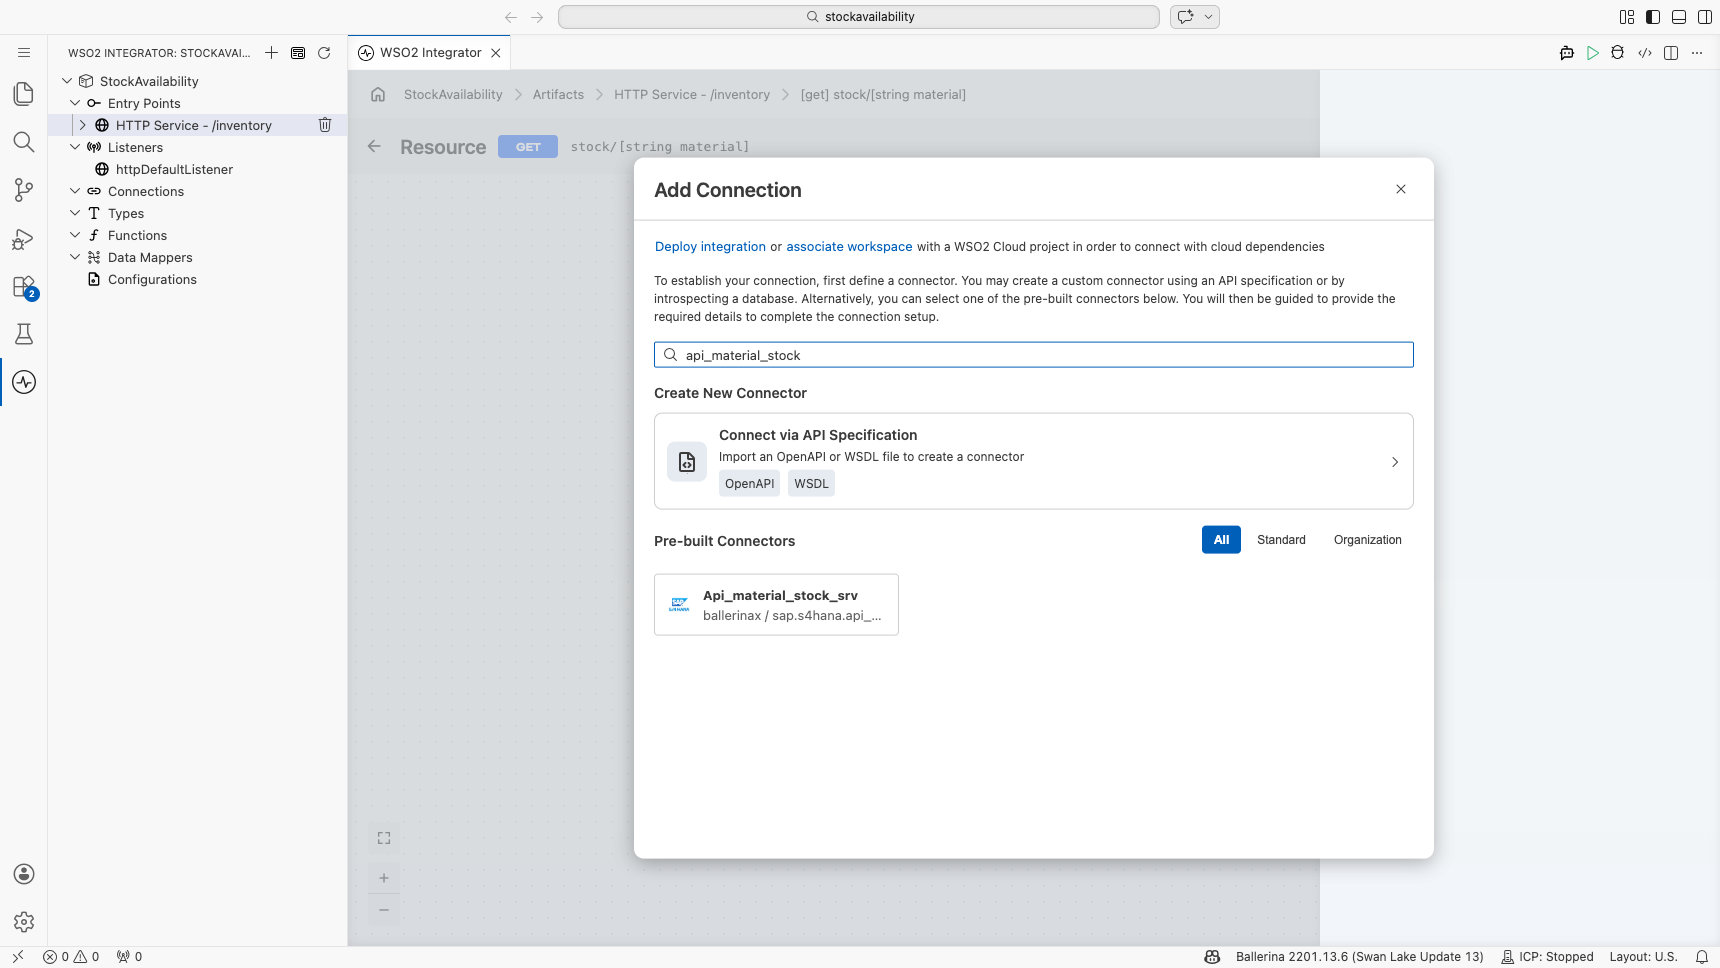
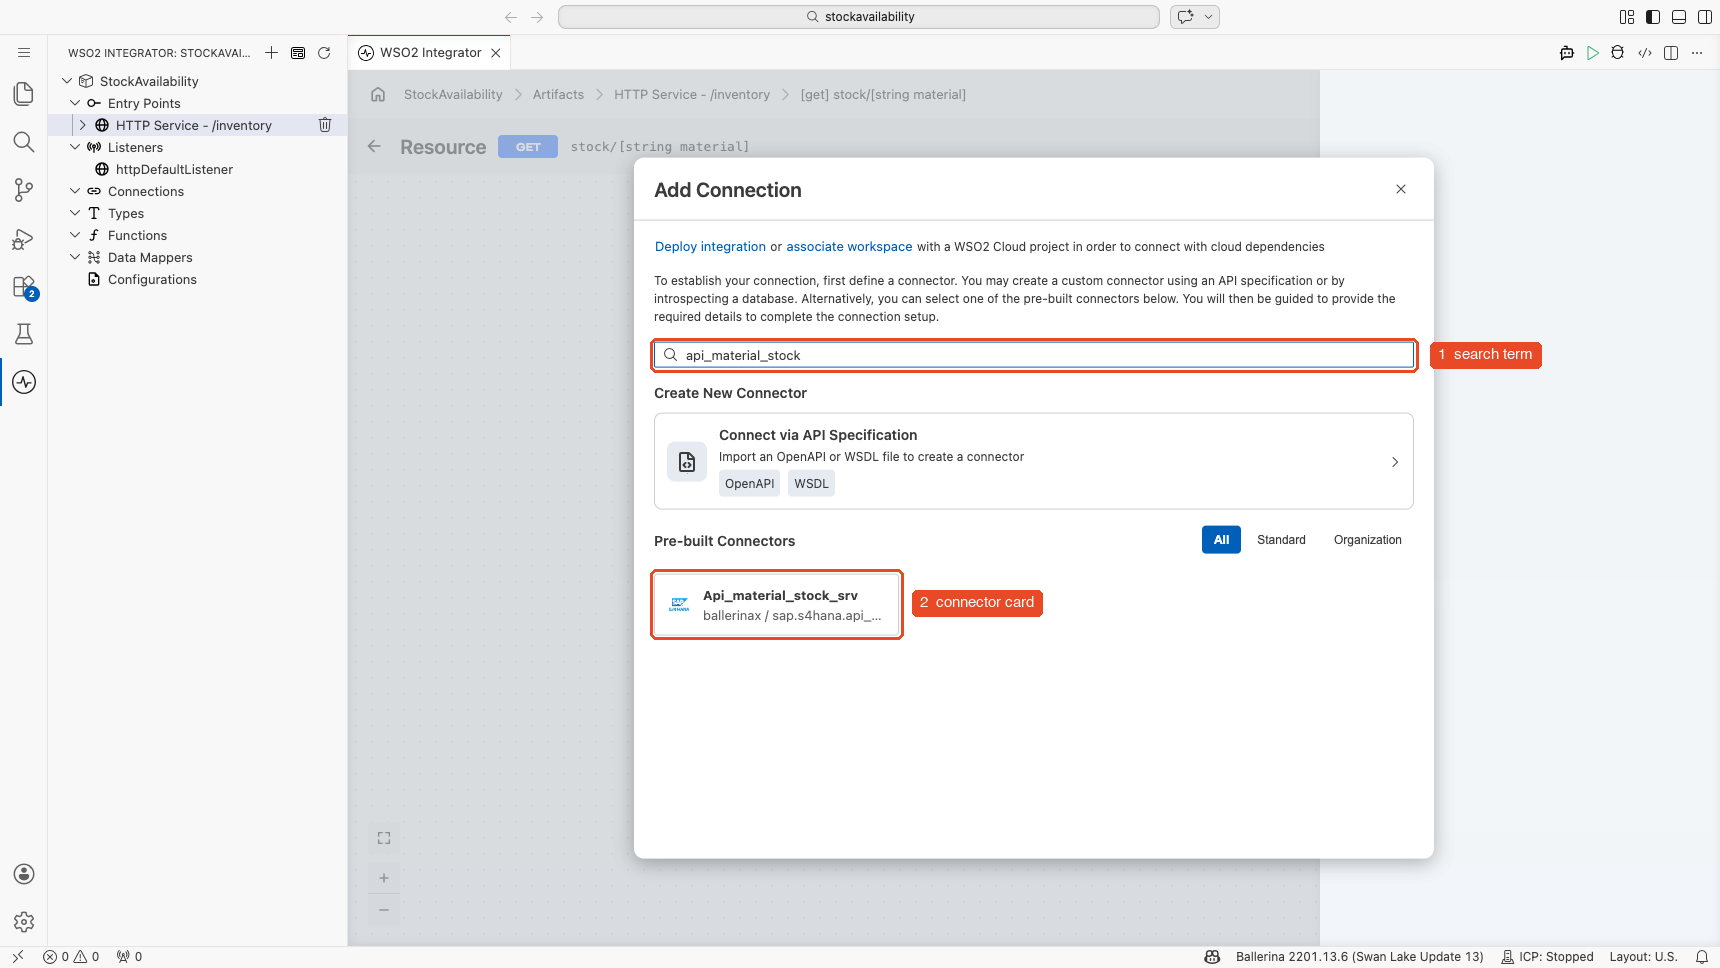
Make the stock availability guide a how-to guide; add SAP setup steps and connector naming
- Move the page from business-use-cases to how-to-guides (current and 5.1.0), slug /guides/how-to-guides/sap-s4hana-stock-availability-api.
- Add a Set up access in SAP S/4HANA section with screenshots: Communication Management apps, communication system, inbound user, SAP_COM_0164 scenario search, new arrangement, API hostname.
- Explain how SAP S/4HANA connector names come from the api.sap.com technical name, with highlight boxes on the connector palette screenshot.

diff --git a/en/docs/guides/how-to-guides/sap-s4hana-stock-availability-api.md b/en/docs/guides/how-to-guides/sap-s4hana-stock-availability-api.md
@@ -1,10 +1,10 @@
 ---
-sidebar_position: 7
+sidebar_position: 6
 title: "Expose SAP S/4HANA Stock Availability as a REST API"
 sidebar_label: "Expose SAP S/4HANA Stock Availability as a REST API"
 description: Build an HTTP service that reads unrestricted-use stock for a material and plant from SAP S/4HANA Cloud and returns the total quantity and the stock in each storage location as JSON, designed visually with the SAP Material Stock connector.
-keywords: [wso2 integrator, http service, rest api, sap s/4hana, material stock, inventory, stock availability, api_material_stock_srv, use case, low-code]
-slug: /guides/business-use-cases/sap-s4hana-stock-availability-api
+keywords: [wso2 integrator, http service, rest api, sap s/4hana, material stock, inventory, stock availability, api_material_stock_srv, communication arrangement, low-code]
+slug: /guides/how-to-guides/sap-s4hana-stock-availability-api
 card_icon: api
 card_summary: A low-code REST API that answers "how much of this material do we have?" with live SAP S/4HANA stock, broken down by storage location
 card_keywords: [sap, s/4hana, inventory, stock, rest api]
@@ -17,7 +17,7 @@ import TabItem from '@theme/TabItem';
 
 # Expose SAP S/4HANA Stock Availability as a REST API
 
-**Time:** About 30 minutes | **What you'll build:** An HTTP service with one `GET` resource that returns the live unrestricted-use stock of a material in a plant, read from SAP S/4HANA Cloud, with the total quantity and the quantity in each storage location.
+**Time:** About 45 minutes | **What you'll build:** An HTTP service with one `GET` resource that returns the live unrestricted-use stock of a material in a plant, read from SAP S/4HANA Cloud, with the total quantity and the quantity in each storage location.
 
 Web shops, point-of-sale systems and warehouse apps all need the same answer before they promise anything to a customer: how much of this material is actually in stock? SAP S/4HANA knows, but its OData API speaks in SAP field names and returns quantities as text. In this guide you build a small REST API in front of it: a client calls `GET /inventory/stock/{material}?plant={plant}`, and the API asks SAP S/4HANA for that material's unrestricted-use stock in that plant and returns a clean JSON answer.
 
@@ -43,12 +43,101 @@ Each request follows the same short flow:
 :::info Prerequisites
 
 - A working WSO2 Integrator environment. See [Setup](../../get-started/setup/setup.md).
-- Access to an SAP S/4HANA Cloud system, and a communication user for the Material Stock API:
-    - Follow the [SAP Material Stock connector setup guide](product://connectors/catalog/erp-business/sap.s4hana.api_material_stock_srv/setup-guide) to create a communication user, a communication system and a **Material Stock Integration** (`SAP_COM_0164`) communication arrangement.
-    - It gives you the API hostname (for example, `my123456-api.s4hana.cloud.sap`) and the communication user's username and password, which you supply as configurables in Step 3.
+- Access to an SAP S/4HANA Cloud system, with a user that has the `SAP_BR_ADMINISTRATOR` role (or equivalent) to create communication users, systems and arrangements. You set up API access in [Set up access in SAP S/4HANA](#set-up-access-in-sap-s4hana).
 - A material that has stock in your system, and the plant it is stored in. The examples in this guide use material `RM019` in plant `1710`.
 
 :::
+
+## Set up access in SAP S/4HANA
+
+SAP S/4HANA Cloud exposes each API through a **communication scenario**. Before the integration can read stock, you create a communication user for it, register WSO2 Integrator as a communication system, and activate the **Material Stock Integration** (`SAP_COM_0164`) scenario for that system with a communication arrangement. All the apps used below are in the **Communication Management** group of the SAP Fiori launchpad.
+
+<ThemedImage
+    alt="Communication Management group in the SAP Fiori launchpad with the Communication Arrangements, Communication Systems and Maintain Communication Users apps"
+    sources={{
+        light: useBaseUrl('/img/guides/usecases/sap-s4hana-stock-availability-api/setup-01-communication-management.png'),
+        dark: useBaseUrl('/img/guides/usecases/sap-s4hana-stock-availability-api/setup-01-communication-management.png'),
+    }}
+/>
+
+### Create a communication user
+
+1. Open **Maintain Communication Users** and select **New**.
+2. Enter a **User Name** and a **Description**, set a **Password**, and select **Create**.
+
+Note the user name and password. The integration uses them to call the API.
+
+### Create a communication system
+
+A communication system represents the external system that calls SAP S/4HANA, here your WSO2 Integrator integration.
+
+1. Open **Communication Systems** and select **New**.
+2. Enter a **System ID** and a **System Name**, then select **Create**.
+
+        <ThemedImage
+        alt="New communication system with the system ID and system name"
+        sources={{
+            light: useBaseUrl('/img/guides/usecases/sap-s4hana-stock-availability-api/setup-02-communication-system.png'),
+            dark: useBaseUrl('/img/guides/usecases/sap-s4hana-stock-availability-api/setup-02-communication-system.png'),
+        }}
+    />
+
+3. Under **General** > **Technical Data**, enter a **Host Name** and a **Logical System** (an uppercase ID of up to 10 characters, for example, `INTEGRATOR`).
+4. Under **Users for Inbound Communication**, add the communication user you created, with the **User Name and Password** authentication method.
+
+        <ThemedImage
+        alt="Communication user added under Users for Inbound Communication"
+        sources={{
+            light: useBaseUrl('/img/guides/usecases/sap-s4hana-stock-availability-api/setup-03-inbound-user.png'),
+            dark: useBaseUrl('/img/guides/usecases/sap-s4hana-stock-availability-api/setup-03-inbound-user.png'),
+        }}
+    />
+
+5. Select **Save**.
+
+### Create the communication arrangement
+
+A communication arrangement activates a communication scenario for a communication system, which decides the APIs that system may call.
+
+1. Open **Communication Arrangements** and select **New**.
+2. In the **Scenario** value help, search for **Material Stock Integration** and select **`SAP_COM_0164`**. This scenario exposes `API_MATERIAL_STOCK_SRV`, the service the Material Stock connector calls.
+
+        <ThemedImage
+        alt="Select Communication Scenario dialog searching for Material Stock Integration, showing SAP_COM_0164"
+        sources={{
+            light: useBaseUrl('/img/guides/usecases/sap-s4hana-stock-availability-api/setup-04-search-scenario.png'),
+            dark: useBaseUrl('/img/guides/usecases/sap-s4hana-stock-availability-api/setup-04-search-scenario.png'),
+        }}
+    />
+
+3. Enter an **Arrangement Name** and select **Create**.
+
+        <ThemedImage
+        alt="New Communication Arrangement dialog with scenario SAP_COM_0164 and an arrangement name"
+        style={{maxWidth: '480px'}}
+        sources={{
+            light: useBaseUrl('/img/guides/usecases/sap-s4hana-stock-availability-api/setup-05-new-arrangement.png'),
+            dark: useBaseUrl('/img/guides/usecases/sap-s4hana-stock-availability-api/setup-05-new-arrangement.png'),
+        }}
+    />
+
+4. Select the communication system you created. The communication user is filled in as the inbound user.
+5. Select **Save**.
+
+### Note the hostname
+
+In the saved arrangement, the **API-URL** next to **Own SAP Cloud System** shows your API hostname (`<unique id>-api.s4hana.cloud.sap`).
+
+<ThemedImage
+    alt="API-URL of the SAP S/4HANA Cloud system shown in the communication arrangement"
+    style={{maxWidth: '600px'}}
+    sources={{
+        light: useBaseUrl('/img/guides/usecases/sap-s4hana-stock-availability-api/setup-06-view-hostname.png'),
+        dark: useBaseUrl('/img/guides/usecases/sap-s4hana-stock-availability-api/setup-06-view-hostname.png'),
+    }}
+/>
+
+You now have the three values the integration needs: the **hostname** (for example, `my123456-api.s4hana.cloud.sap`), and the communication user's **username** and **password**. For more detail, see the [SAP Material Stock connector setup guide](product://connectors/catalog/erp-business/sap.s4hana.api_material_stock_srv/setup-guide).
 
 ## Build the integration
 
@@ -110,7 +199,7 @@ The resource opens in the flow designer, with **Start**, an empty step and the *
 
 ## Step 3: Connect to SAP S/4HANA
 
-1. Select the **+** below **Start**, then [**Add Connection**](../../develop-and-test/integration-artifacts/supportive-artifacts/connections.md#adding-a-connection). Search for `api_material_stock` and select the **Api_material_stock_srv** connector.
+1. Select the **+** below **Start**, then [**Add Connection**](../../develop-and-test/integration-artifacts/supportive-artifacts/connections.md#adding-a-connection). Search for `api_material_stock` (1) and select the **Api_material_stock_srv** connector (2).
 
     <ThemedImage
         alt="Add Connection dialog searching for api_material_stock, with the Api_material_stock_srv connector card shown under Pre-built Connectors"
@@ -120,7 +209,20 @@ The resource opens in the flow designer, with **Start**, an empty step and the *
         }}
     />
 
-2. Create three `string` configurables so the credentials are supplied at runtime instead of stored in the flow: in a field's [Expression editor](../../editor/panels/expression-panel.md) helper pane, select **Configurables**, then **New Configurable**. Name them `sapS4HanaHostname`, `sapS4HanaUsername` and `sapS4HanaPassword`.
+    :::info Why is the connector called Api_material_stock_srv?
+    Each SAP S/4HANA connector is generated from one API on the [SAP Business Accelerator Hub](https://api.sap.com), and takes its name from that API's **technical name**. The technical name is the last part of the API's URL on api.sap.com, and also the name of the OData service the connector calls on your system (`/sap/opu/odata/sap/API_MATERIAL_STOCK_SRV`).
+
+    | | Example |
+    |---|---|
+    | API on api.sap.com | **Material Stock (A2X)** |
+    | api.sap.com URL | `https://api.sap.com/api/`**`API_MATERIAL_STOCK_SRV`**`/overview` |
+    | Ballerina package | `ballerinax/sap.s4hana.`**`api_material_stock_srv`** (`sap.s4hana.` plus the technical name in lower case) |
+    | Connector card in WSO2 Integrator | **Api_material_stock_srv** |
+
+    So, to find the connector for any other SAP S/4HANA API, open the API on api.sap.com, copy the technical name from its URL, and search for it in lower case. For example, **Outbound Delivery (A2X)** at `https://api.sap.com/api/API_OUTBOUND_DELIVERY_SRV_0002/overview` is the `sap.s4hana.api_outbound_delivery_srv_0002` connector.
+    :::
+
+2. Create three `string` configurables for the hostname, username and password you noted in [Set up access in SAP S/4HANA](#set-up-access-in-sap-s4hana), so the credentials are supplied at runtime instead of stored in the flow: in a field's [Expression editor](../../editor/panels/expression-panel.md) helper pane, select **Configurables**, then **New Configurable**. Name them `sapS4HanaHostname`, `sapS4HanaUsername` and `sapS4HanaPassword`.
 3. Bind **Hostname** to `sapS4HanaHostname`.
 4. Switch **Config** to **Expression** and enter:
 

diff --git a/en/versioned_docs/version-5.1.0/guides/how-to-guides/sap-s4hana-stock-availability-api.md b/en/versioned_docs/version-5.1.0/guides/how-to-guides/sap-s4hana-stock-availability-api.md
@@ -1,10 +1,10 @@
 ---
-sidebar_position: 7
+sidebar_position: 6
 title: "Expose SAP S/4HANA Stock Availability as a REST API"
 sidebar_label: "Expose SAP S/4HANA Stock Availability as a REST API"
 description: Build an HTTP service that reads unrestricted-use stock for a material and plant from SAP S/4HANA Cloud and returns the total quantity and the stock in each storage location as JSON, designed visually with the SAP Material Stock connector.
-keywords: [wso2 integrator, http service, rest api, sap s/4hana, material stock, inventory, stock availability, api_material_stock_srv, use case, low-code]
-slug: /guides/business-use-cases/sap-s4hana-stock-availability-api
+keywords: [wso2 integrator, http service, rest api, sap s/4hana, material stock, inventory, stock availability, api_material_stock_srv, communication arrangement, low-code]
+slug: /guides/how-to-guides/sap-s4hana-stock-availability-api
 card_icon: api
 card_summary: A low-code REST API that answers "how much of this material do we have?" with live SAP S/4HANA stock, broken down by storage location
 card_keywords: [sap, s/4hana, inventory, stock, rest api]
@@ -17,7 +17,7 @@ import TabItem from '@theme/TabItem';
 
 # Expose SAP S/4HANA Stock Availability as a REST API
 
-**Time:** About 30 minutes | **What you'll build:** An HTTP service with one `GET` resource that returns the live unrestricted-use stock of a material in a plant, read from SAP S/4HANA Cloud, with the total quantity and the quantity in each storage location.
+**Time:** About 45 minutes | **What you'll build:** An HTTP service with one `GET` resource that returns the live unrestricted-use stock of a material in a plant, read from SAP S/4HANA Cloud, with the total quantity and the quantity in each storage location.
 
 Web shops, point-of-sale systems and warehouse apps all need the same answer before they promise anything to a customer: how much of this material is actually in stock? SAP S/4HANA knows, but its OData API speaks in SAP field names and returns quantities as text. In this guide you build a small REST API in front of it: a client calls `GET /inventory/stock/{material}?plant={plant}`, and the API asks SAP S/4HANA for that material's unrestricted-use stock in that plant and returns a clean JSON answer.
 
@@ -43,12 +43,101 @@ Each request follows the same short flow:
 :::info Prerequisites
 
 - A working WSO2 Integrator environment. See [Setup](../../get-started/setup/setup.md).
-- Access to an SAP S/4HANA Cloud system, and a communication user for the Material Stock API:
-    - Follow the [SAP Material Stock connector setup guide](product://connectors/catalog/erp-business/sap.s4hana.api_material_stock_srv/setup-guide) to create a communication user, a communication system and a **Material Stock Integration** (`SAP_COM_0164`) communication arrangement.
-    - It gives you the API hostname (for example, `my123456-api.s4hana.cloud.sap`) and the communication user's username and password, which you supply as configurables in Step 3.
+- Access to an SAP S/4HANA Cloud system, with a user that has the `SAP_BR_ADMINISTRATOR` role (or equivalent) to create communication users, systems and arrangements. You set up API access in [Set up access in SAP S/4HANA](#set-up-access-in-sap-s4hana).
 - A material that has stock in your system, and the plant it is stored in. The examples in this guide use material `RM019` in plant `1710`.
 
 :::
+
+## Set up access in SAP S/4HANA
+
+SAP S/4HANA Cloud exposes each API through a **communication scenario**. Before the integration can read stock, you create a communication user for it, register WSO2 Integrator as a communication system, and activate the **Material Stock Integration** (`SAP_COM_0164`) scenario for that system with a communication arrangement. All the apps used below are in the **Communication Management** group of the SAP Fiori launchpad.
+
+<ThemedImage
+    alt="Communication Management group in the SAP Fiori launchpad with the Communication Arrangements, Communication Systems and Maintain Communication Users apps"
+    sources={{
+        light: useBaseUrl('/img/guides/usecases/sap-s4hana-stock-availability-api/setup-01-communication-management.png'),
+        dark: useBaseUrl('/img/guides/usecases/sap-s4hana-stock-availability-api/setup-01-communication-management.png'),
+    }}
+/>
+
+### Create a communication user
+
+1. Open **Maintain Communication Users** and select **New**.
+2. Enter a **User Name** and a **Description**, set a **Password**, and select **Create**.
+
+Note the user name and password. The integration uses them to call the API.
+
+### Create a communication system
+
+A communication system represents the external system that calls SAP S/4HANA, here your WSO2 Integrator integration.
+
+1. Open **Communication Systems** and select **New**.
+2. Enter a **System ID** and a **System Name**, then select **Create**.
+
+        <ThemedImage
+        alt="New communication system with the system ID and system name"
+        sources={{
+            light: useBaseUrl('/img/guides/usecases/sap-s4hana-stock-availability-api/setup-02-communication-system.png'),
+            dark: useBaseUrl('/img/guides/usecases/sap-s4hana-stock-availability-api/setup-02-communication-system.png'),
+        }}
+    />
+
+3. Under **General** > **Technical Data**, enter a **Host Name** and a **Logical System** (an uppercase ID of up to 10 characters, for example, `INTEGRATOR`).
+4. Under **Users for Inbound Communication**, add the communication user you created, with the **User Name and Password** authentication method.
+
+        <ThemedImage
+        alt="Communication user added under Users for Inbound Communication"
+        sources={{
+            light: useBaseUrl('/img/guides/usecases/sap-s4hana-stock-availability-api/setup-03-inbound-user.png'),
+            dark: useBaseUrl('/img/guides/usecases/sap-s4hana-stock-availability-api/setup-03-inbound-user.png'),
+        }}
+    />
+
+5. Select **Save**.
+
+### Create the communication arrangement
+
+A communication arrangement activates a communication scenario for a communication system, which decides the APIs that system may call.
+
+1. Open **Communication Arrangements** and select **New**.
+2. In the **Scenario** value help, search for **Material Stock Integration** and select **`SAP_COM_0164`**. This scenario exposes `API_MATERIAL_STOCK_SRV`, the service the Material Stock connector calls.
+
+        <ThemedImage
+        alt="Select Communication Scenario dialog searching for Material Stock Integration, showing SAP_COM_0164"
+        sources={{
+            light: useBaseUrl('/img/guides/usecases/sap-s4hana-stock-availability-api/setup-04-search-scenario.png'),
+            dark: useBaseUrl('/img/guides/usecases/sap-s4hana-stock-availability-api/setup-04-search-scenario.png'),
+        }}
+    />
+
+3. Enter an **Arrangement Name** and select **Create**.
+
+        <ThemedImage
+        alt="New Communication Arrangement dialog with scenario SAP_COM_0164 and an arrangement name"
+        style={{maxWidth: '480px'}}
+        sources={{
+            light: useBaseUrl('/img/guides/usecases/sap-s4hana-stock-availability-api/setup-05-new-arrangement.png'),
+            dark: useBaseUrl('/img/guides/usecases/sap-s4hana-stock-availability-api/setup-05-new-arrangement.png'),
+        }}
+    />
+
+4. Select the communication system you created. The communication user is filled in as the inbound user.
+5. Select **Save**.
+
+### Note the hostname
+
+In the saved arrangement, the **API-URL** next to **Own SAP Cloud System** shows your API hostname (`<unique id>-api.s4hana.cloud.sap`).
+
+<ThemedImage
+    alt="API-URL of the SAP S/4HANA Cloud system shown in the communication arrangement"
+    style={{maxWidth: '600px'}}
+    sources={{
+        light: useBaseUrl('/img/guides/usecases/sap-s4hana-stock-availability-api/setup-06-view-hostname.png'),
+        dark: useBaseUrl('/img/guides/usecases/sap-s4hana-stock-availability-api/setup-06-view-hostname.png'),
+    }}
+/>
+
+You now have the three values the integration needs: the **hostname** (for example, `my123456-api.s4hana.cloud.sap`), and the communication user's **username** and **password**. For more detail, see the [SAP Material Stock connector setup guide](product://connectors/catalog/erp-business/sap.s4hana.api_material_stock_srv/setup-guide).
 
 ## Build the integration
 
@@ -110,7 +199,7 @@ The resource opens in the flow designer, with **Start**, an empty step and the *
 
 ## Step 3: Connect to SAP S/4HANA
 
-1. Select the **+** below **Start**, then [**Add Connection**](../../develop-and-test/integration-artifacts/supportive-artifacts/connections.md#adding-a-connection). Search for `api_material_stock` and select the **Api_material_stock_srv** connector.
+1. Select the **+** below **Start**, then [**Add Connection**](../../develop-and-test/integration-artifacts/supportive-artifacts/connections.md#adding-a-connection). Search for `api_material_stock` (1) and select the **Api_material_stock_srv** connector (2).
 
     <ThemedImage
         alt="Add Connection dialog searching for api_material_stock, with the Api_material_stock_srv connector card shown under Pre-built Connectors"
@@ -120,7 +209,20 @@ The resource opens in the flow designer, with **Start**, an empty step and the *
         }}
     />
 
-2. Create three `string` configurables so the credentials are supplied at runtime instead of stored in the flow: in a field's [Expression editor](../../editor/panels/expression-panel.md) helper pane, select **Configurables**, then **New Configurable**. Name them `sapS4HanaHostname`, `sapS4HanaUsername` and `sapS4HanaPassword`.
+    :::info Why is the connector called Api_material_stock_srv?
+    Each SAP S/4HANA connector is generated from one API on the [SAP Business Accelerator Hub](https://api.sap.com), and takes its name from that API's **technical name**. The technical name is the last part of the API's URL on api.sap.com, and also the name of the OData service the connector calls on your system (`/sap/opu/odata/sap/API_MATERIAL_STOCK_SRV`).
+
+    | | Example |
+    |---|---|
+    | API on api.sap.com | **Material Stock (A2X)** |
+    | api.sap.com URL | `https://api.sap.com/api/`**`API_MATERIAL_STOCK_SRV`**`/overview` |
+    | Ballerina package | `ballerinax/sap.s4hana.`**`api_material_stock_srv`** (`sap.s4hana.` plus the technical name in lower case) |
+    | Connector card in WSO2 Integrator | **Api_material_stock_srv** |
+
+    So, to find the connector for any other SAP S/4HANA API, open the API on api.sap.com, copy the technical name from its URL, and search for it in lower case. For example, **Outbound Delivery (A2X)** at `https://api.sap.com/api/API_OUTBOUND_DELIVERY_SRV_0002/overview` is the `sap.s4hana.api_outbound_delivery_srv_0002` connector.
+    :::
+
+2. Create three `string` configurables for the hostname, username and password you noted in [Set up access in SAP S/4HANA](#set-up-access-in-sap-s4hana), so the credentials are supplied at runtime instead of stored in the flow: in a field's [Expression editor](../../editor/panels/expression-panel.md) helper pane, select **Configurables**, then **New Configurable**. Name them `sapS4HanaHostname`, `sapS4HanaUsername` and `sapS4HanaPassword`.
 3. Bind **Hostname** to `sapS4HanaHostname`.
 4. Switch **Config** to **Expression** and enter:
 
